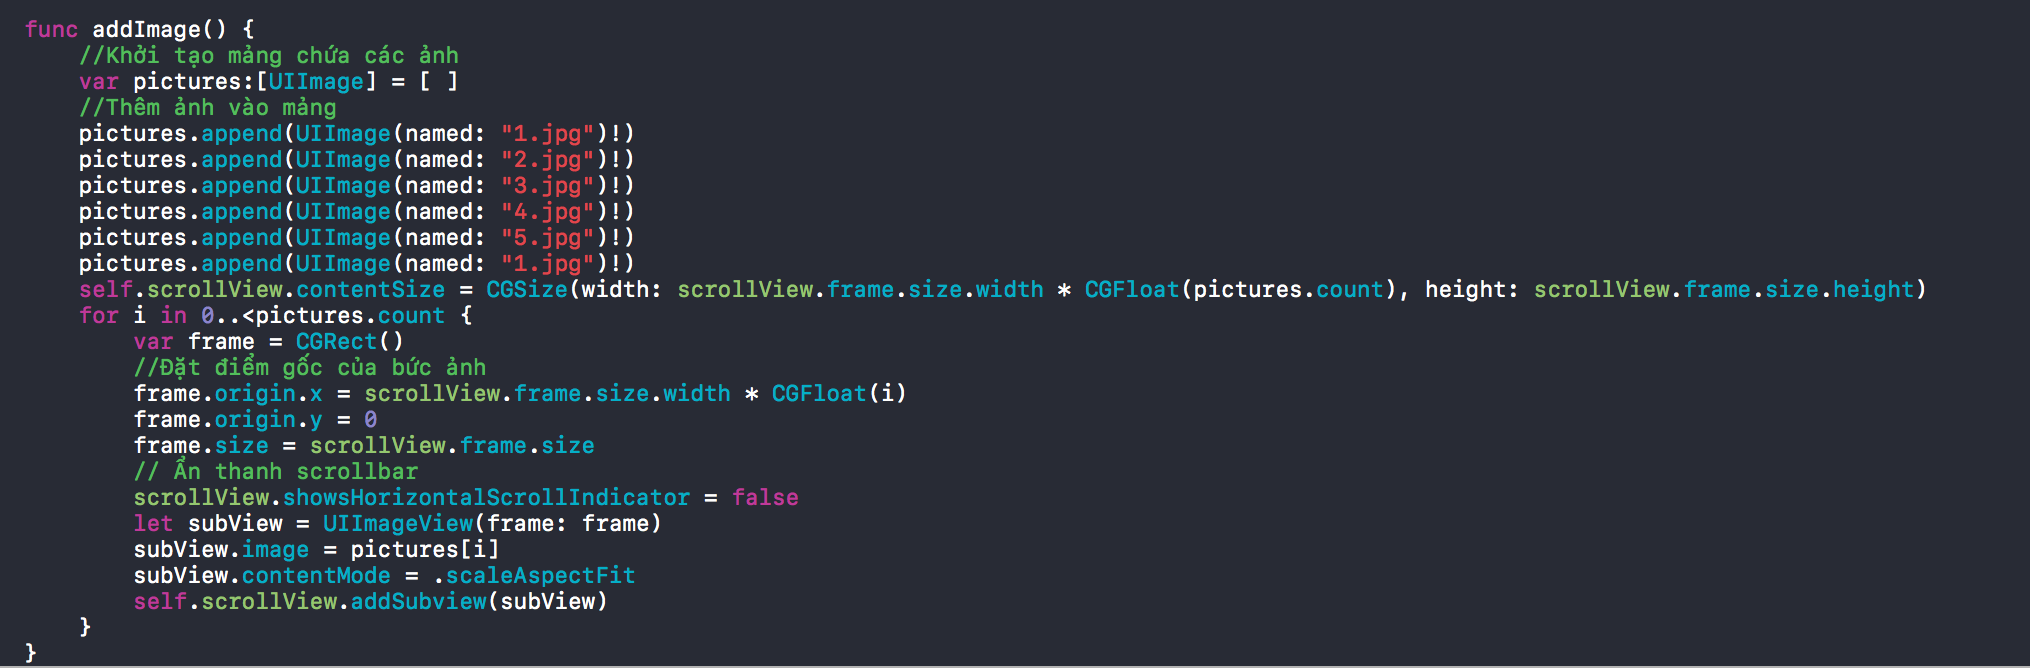
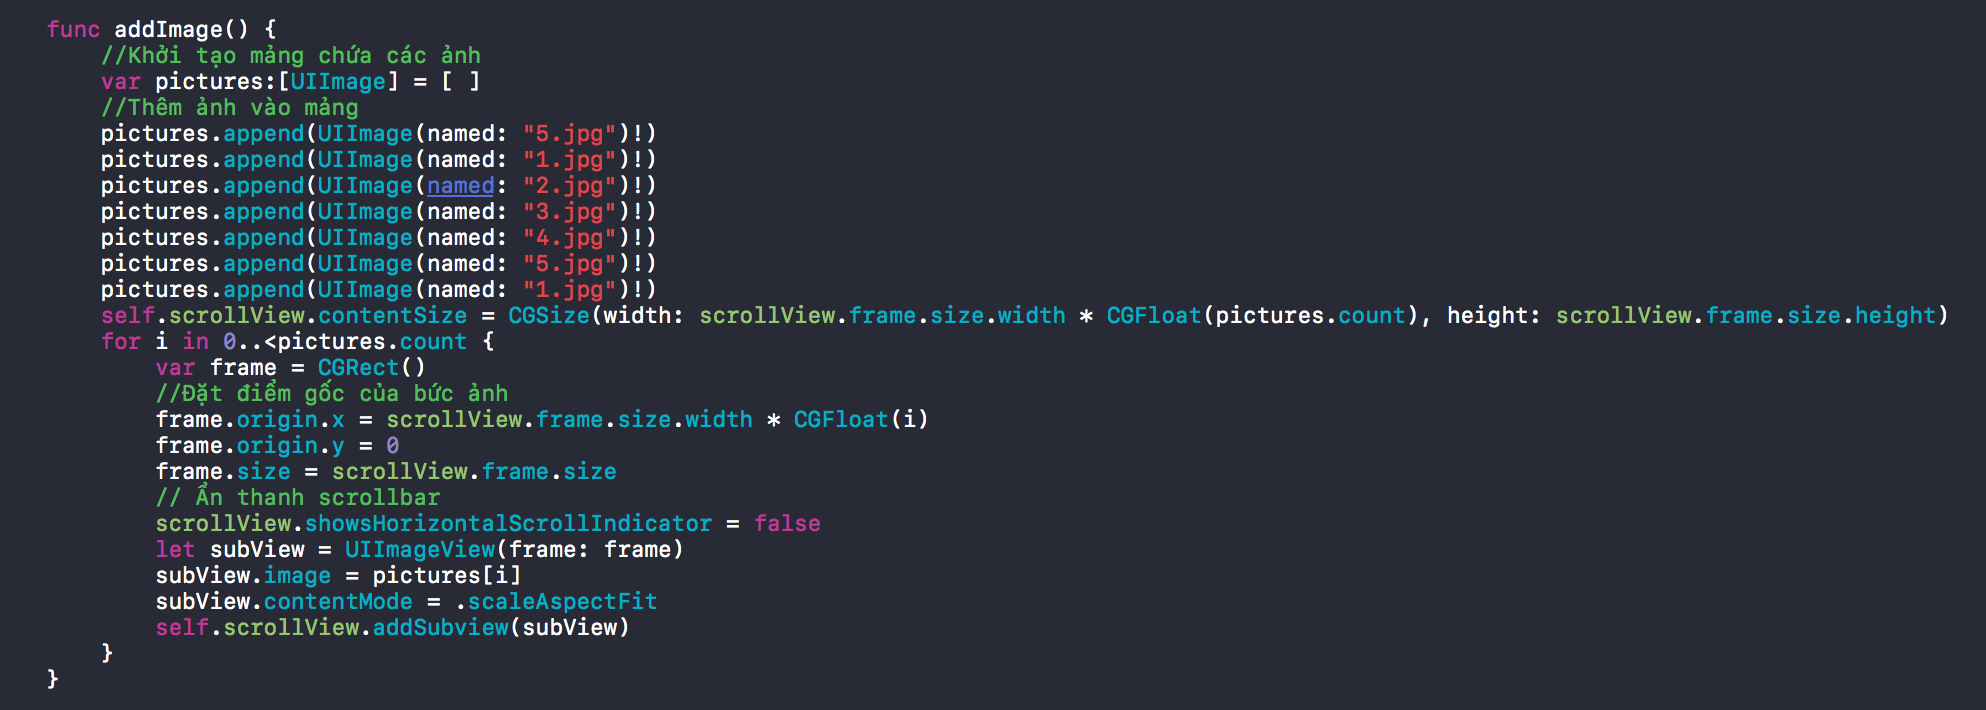
update
update

Changed region(s): [[0.0, 0.0299, 0.9678, 0.9281], [0.0, 0.9581, 1.0, 1.0]]

diff --git a/CheckMiss/ViewController.swift b/CheckMiss/ViewController.swift
@@ -30,31 +30,25 @@ class ViewController: UIViewController,UIScrollViewDelegate,AVAudioPlayerDelegat
         
         let X = scrollView.contentOffset.x
         print(X)
-        // Khi Scroll đến hết cái ảnh thứ 6 (tức ảnh có tên "1") thì gọi lại tọa độ của ảnh thứ 1
-        if X >=  scrollView.frame.size.width * 5 {
-            self.scrollView.contentOffset = CGPoint(x: 0 , y: 0)
+        if X > 0 // Khi vuốt sang trái
+        {
+            //Khi scroll đến hết chiếc ảnh thứ 6
+            if X >=  scrollView.frame.size.width * 6 {
+                // Gọi tới chiếc ảnh thứ 2
+                self.scrollView.contentOffset = CGPoint(x: scrollView.frame.size.width , y: 0)
+            }
         }
-        
-        
-        
-        //        let pageWidth = scrollView.frame.size.width
-        //
-        //        let page = Int(((scrollView.contentOffset.x * 2.0 + pageWidth) / (pageWidth * 2.0)))
-        //
-        //        print(page)
-        //        if page == 3 {
-        //            self.scrollView.contentOffset = CGPoint(x: 0 , y: 0)
-        //        }
-        
-        
+        else if X < 0 // Khi vuốt sang phải
+        {
+            self.scrollView.contentOffset = CGPoint(x: scrollView.frame.size.width * 5 , y: 0)
+        }
     }
-    
-    
     
     func addImage() {
         //Khởi tạo mảng chứa các ảnh
         var pictures:[UIImage] = [ ]
         //Thêm ảnh vào mảng
+        pictures.append(UIImage(named: "5.jpg")!)
         pictures.append(UIImage(named: "1.jpg")!)
         pictures.append(UIImage(named: "2.jpg")!)
         pictures.append(UIImage(named: "3.jpg")!)
@@ -76,13 +70,14 @@ class ViewController: UIViewController,UIScrollViewDelegate,AVAudioPlayerDelegat
             self.scrollView.addSubview(subView)
         }
     }
+    
     //    func onTimer() {
     //
     //        if (scrollView.contentOffset.x < 800) {
     //            //scroll to desire position
     //            scrollView.contentOffset = CGPoint(x:scrollView.contentOffset.x + 1, y:0);
     //        }
-    //        
+    //
     //    }
 }
 

diff --git a/README.md b/README.md
@@ -6,27 +6,35 @@ Là một dạng vòng lặp vô hạn khi ta kéo Scrollview tới trang 
 
 Các bước thực hiện:
 
-Bước 1:
+### Bước 1:
 
 Thêm vào màn hình một Scrollview
 
 ![](/assets/1.png)
 
-Bước 2:
+### Bước 2:
 
 Thêm các ảnh cần cuộn vào UIScrollview
 
 ![](/assets/2.png)
 
-Ta có 5 cái ảnh nhưng mảng sẽ có 6 phần tử, phần tử thứ 6 chính là chiếc ảnh thứ nhất để tránh khắc phục hiện tượng giật khi kéo từ chiếc ảnh cuối cùng về ảnh đầu tiên
+Ta có 5 cái ảnh nhưng mảng sẽ có 7 phần tử, phần tử cuối cùng chính là chiếc ảnh thứ nhất, phần tử thứ nhất chính là chiếc ảnh cuối cùng. Mục đích của việc sắp xếp ảnh này là để khắc phục hiện tượng giật khi kéo từ chiếc ảnh cuối cùng về ảnh đầu tiên và ngược lại.
 
-Bước 3:
+### Bước 3:
 
-Tạo hiệu ứng Infinite Scrollview bằng cách implement phương thức scrollViewDidScroll
+Tạo hiệu ứng Infinite Scrollview bằng cách thêm các điều kiện logic vào hàm scrollViewDidScroll \(Hàm này được implement thông qua UIScrollViewDelegate\)
 
 ![](/assets/3.png)
 
-Bước 4:
+Khi vuốt sang trái tới hết chiếc ảnh thứ 6:
+
+![](/assets/SwipeToLeft.png)
+
+Khi vuốt sang phải:
+
+![](/assets/SwipetoRight.png)
+
+### Bước 4:
 
 Thêm âm thanh khi thao tác cuộn trên Scrollview
 
@@ -39,6 +47,4 @@ Thêm âm thanh khi thao tác cuộn trên Scrollview
 * Hiệu ứng âm thanh sẽ phát lên khi bắt đầu 1 thao tác kéo trên Scrollview bằng các implement hàm scrollViewWillBeginDragging
 
 ![](/assets/6.png)
-
-
 
